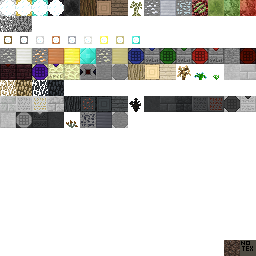
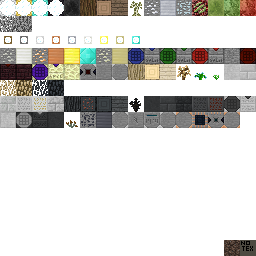
Retextured the Reducer and also added a new higher-power generator that derives from the Reducer.

Changed region(s): [[0.5, 0.4375, 0.9375, 0.5]]

diff --git a/source/com/voidzm/supercraft/handler/CraftingHandler.java b/source/com/voidzm/supercraft/handler/CraftingHandler.java
@@ -8,6 +8,8 @@
 
 package com.voidzm.supercraft.handler;
 
+import com.voidzm.supercraft.util.EssentialReducerRecipes.EssentialAspect;
+
 import cpw.mods.fml.common.registry.GameRegistry;
 import net.minecraft.block.Block;
 import net.minecraft.item.Item;
@@ -42,6 +44,7 @@ public class CraftingHandler {
 	private ItemStack netherBrick;
 	private ItemStack redstone;
 	private ItemStack stoneBrick;
+	private ItemStack flint;
 	
 	// Supercraft
 	
@@ -76,6 +79,9 @@ public class CraftingHandler {
 	private ItemStack nisilBlock;
 	private ItemStack snapdragon;
 	private ItemStack ironboundStone;
+	private ItemStack copperboundStone;
+	private ItemStack aeronicEssence;
+	private ItemStack radantisEssence;
 	
 	public void populateAllAndInitialize() {
 		this.initializeCraftingRefs();
@@ -109,6 +115,7 @@ public class CraftingHandler {
 		netherBrick = new ItemStack(Block.netherBrick);
 		redstone = new ItemStack(Item.redstone);
 		stoneBrick = new ItemStack(Block.stoneBrick);
+		flint = new ItemStack(Item.flint);
 		
 		oliveWood = new ItemStack(BlockHandler.supercraftLog, 1, 0);
 		olivePlanks = new ItemStack(BlockHandler.supercraftPlanks, 1, 0);
@@ -141,6 +148,9 @@ public class CraftingHandler {
 		nisilBlock = new ItemStack(BlockHandler.nisilBlock);
 		snapdragon = new ItemStack(BlockHandler.snapdragon);
 		ironboundStone = new ItemStack(BlockHandler.ironboundStone);
+		copperboundStone = new ItemStack(BlockHandler.copperboundStone);
+		aeronicEssence = new ItemStack(ItemHandler.essence, 1, EssentialAspect.AERONIC.index);
+		radantisEssence = new ItemStack(ItemHandler.essence, 1, EssentialAspect.RADANTIS.index);
 	}
 	
 	private void addRecipes() {
@@ -250,6 +260,9 @@ public class CraftingHandler {
 		// Machines
 		
 		GameRegistry.addRecipe(new ItemStack(BlockHandler.ironboundStone), "a a", " b ", "a a", 'a', ironScrap, 'b', stone);
+		GameRegistry.addRecipe(new ItemStack(BlockHandler.essentialReducer), "aba", "cdc", "aaa", 'a', ironboundStone, 'b', flint, 'c', elinvarDust, 'd', diamond);
+		GameRegistry.addRecipe(new ItemStack(BlockHandler.copperboundStone), "a a", " b ", "a a", 'a', copperChunk, 'b', stone);
+		GameRegistry.addRecipe(new ItemStack(BlockHandler.radiantSolarGenerator), "aba", "cdc", "eee", 'a', aeronicEssence, 'b', radantisEssence, 'c', obsidian, 'd', copper, 'e', copperboundStone);
 		
 	}
 	

diff --git a/source/com/voidzm/supercraft/entity/TileEntityRadiantSolarGenerator.java b/source/com/voidzm/supercraft/entity/TileEntityRadiantSolarGenerator.java
@@ -1,0 +1,65 @@
+package com.voidzm.supercraft.entity;
+
+import com.voidzm.supercraft.handler.BlockHandler;
+
+import net.minecraft.item.ItemStack;
+import net.minecraft.nbt.NBTTagCompound;
+import net.minecraft.nbt.NBTTagList;
+import net.minecraft.network.INetworkManager;
+import net.minecraft.network.packet.Packet;
+import net.minecraft.network.packet.Packet132TileEntityData;
+import net.minecraft.tileentity.TileEntity;
+
+public class TileEntityRadiantSolarGenerator extends TileEntity {
+
+	public boolean activated;
+	private int internalCounter;
+	private boolean inited = false;
+	
+	public TileEntityRadiantSolarGenerator() {
+		activated = false;
+		internalCounter = 0;
+	}
+	
+	public Packet getDescriptionPacket() {
+		NBTTagCompound tag = new NBTTagCompound();
+		this.writeToNBT(tag);
+		return new Packet132TileEntityData(this.xCoord, this.yCoord, this.zCoord, 0, tag);
+	}
+	
+	public void onDataPacket(INetworkManager net, Packet132TileEntityData pkt) {
+		this.readFromNBT(pkt.customParam1);
+	}
+	
+	@Override
+	public void readFromNBT(NBTTagCompound tagCompound) {
+		super.readFromNBT(tagCompound);
+		this.activated = tagCompound.getBoolean("Activated");
+	}
+	
+	@Override
+	public void writeToNBT(NBTTagCompound tagCompound) {
+		super.writeToNBT(tagCompound);
+		tagCompound.setBoolean("Activated", this.activated);
+	}
+	
+	public void updateEntity() {
+		if(this.worldObj == null) return;
+		if(internalCounter < 20) {
+			internalCounter++;
+			return;
+		}
+		if(this.worldObj.canBlockSeeTheSky(this.xCoord, this.yCoord+1, this.zCoord)) {
+			if(this.activated == false) {
+				this.activated = true;
+				this.worldObj.notifyBlocksOfNeighborChange(this.xCoord, this.yCoord, this.zCoord, BlockHandler.radiantSolarGenerator.blockID);
+			}
+		}
+		else if(this.activated == true) {
+			this.activated = false;
+			this.worldObj.notifyBlocksOfNeighborChange(this.xCoord, this.yCoord, this.zCoord, BlockHandler.radiantSolarGenerator.blockID);
+		}
+		internalCounter = 0;
+	}
+	
+}

diff --git a/source/com/voidzm/supercraft/handler/BlockHandler.java b/source/com/voidzm/supercraft/handler/BlockHandler.java
@@ -108,6 +108,8 @@ public class BlockHandler {
 	
 	public static Block ironboundStone;
 	public static Block essentialReducer;
+	public static Block copperboundStone;
+	public static Block radiantSolarGenerator;
 	
 	public void populateAllAndInitialize() {
 		this.createBlocks();
@@ -270,6 +272,8 @@ public class BlockHandler {
 		
 		languageHandler.add(ironboundStone, "Ironbound Stone");
 		languageHandler.add(essentialReducer, "Essential Reducer");
+		languageHandler.add(copperboundStone, "Copperbound Stone");
+		languageHandler.add(radiantSolarGenerator, "Radiant Solar Generator");
 		
 	}
 	
@@ -384,6 +388,8 @@ public class BlockHandler {
 		
 		ironboundStone = new BlockIronboundStone(1656);
 		essentialReducer = new BlockEssentialReducer(1657);
+		copperboundStone = new BlockCopperboundStone(1658);
+		radiantSolarGenerator = new BlockRadiantSolarGenerator(1659);
 		
 	}
 	
@@ -498,6 +504,8 @@ public class BlockHandler {
 		
 		GameRegistry.registerBlock(ironboundStone, "ironboundStone");
 		GameRegistry.registerBlock(essentialReducer, "essentialReducer");
+		GameRegistry.registerBlock(copperboundStone, "copperboundStone");
+		GameRegistry.registerBlock(radiantSolarGenerator, "radiantSolarGenerator");
 		
 	}
 	
@@ -657,6 +665,8 @@ public class BlockHandler {
 		
 		LanguageRegistry.addName(ironboundStone, (String)this.languageHandler.getString(ironboundStone));
 		LanguageRegistry.addName(essentialReducer, (String)this.languageHandler.getString(essentialReducer));
+		LanguageRegistry.addName(copperboundStone, (String)this.languageHandler.getString(copperboundStone));
+		LanguageRegistry.addName(radiantSolarGenerator, (String)this.languageHandler.getString(radiantSolarGenerator));
 		
 	}
 	

diff --git a/source/com/voidzm/supercraft/block/BlockContainerGenerator.java b/source/com/voidzm/supercraft/block/BlockContainerGenerator.java
@@ -1,0 +1,52 @@
+//////////////////////////////////////
+//*  BlockContainerGenerator.java  *//
+//*           Supercraft           *//
+//*        (c) voidzm 2013         *//
+//////////////////////////////////////
+
+package com.voidzm.supercraft.block;
+
+import com.voidzm.supercraft.CommonProxy;
+import com.voidzm.supercraft.Supercraft;
+
+import net.minecraft.block.Block;
+import net.minecraft.block.BlockContainer;
+import net.minecraft.block.material.Material;
+import net.minecraft.creativetab.CreativeTabs;
+import net.minecraft.tileentity.TileEntity;
+import net.minecraft.world.World;
+
+public class BlockContainerGenerator extends BlockContainer {
+
+	public BlockContainerGenerator(int id, int tex) {
+		super(id, tex, Material.iron);
+		this.setHardness(3.0F);
+		this.setResistance(5.0F);
+		this.setStepSound(Block.soundMetalFootstep);
+		this.setBlockName("generator");
+		this.setCreativeTab(Supercraft.elinvarTab);
+	}
+	
+	@Override
+	public String getTextureFile() {
+		return CommonProxy.BLOCKS_PNG;
+	}
+	
+	public void onBlockAdded(World par1World, int par2, int par3, int par4) {
+		this.updateState(par1World, par2, par3, par4);
+	}
+	
+	public void onNeighborBlockChange(World par1World, int par2, int par3, int par4, int par5) {
+		this.updateState(par1World, par2, par3, par4);
+	}
+	
+	public void updateState(World par1World, int par2, int par3, int par4) {
+		// Subclasses override this to perform updates.
+	}
+
+	@Override
+	public TileEntity createNewTileEntity(World var1) {
+		return null;
+	}
+	
+}

diff --git a/source/com/voidzm/supercraft/block/BlockRadiantSolarGenerator.java b/source/com/voidzm/supercraft/block/BlockRadiantSolarGenerator.java
@@ -1,0 +1,47 @@
+package com.voidzm.supercraft.block;
+
+import net.minecraft.tileentity.TileEntity;
+import net.minecraft.world.World;
+
+import com.voidzm.supercraft.entity.TileEntityConduit;
+import com.voidzm.supercraft.entity.TileEntityRadiantSolarGenerator;
+import com.voidzm.supercraft.protocol.IGenerator;
+import com.voidzm.supercraft.protocol.IGenerator.GeneratorSide;
+
+public class BlockRadiantSolarGenerator extends BlockContainerGenerator implements IGenerator {
+
+	public BlockRadiantSolarGenerator(int id) {
+		super(id, 124);
+		this.setBlockName("radiantSolarGenerator");
+	}
+
+	public int getBlockTextureFromSideAndMetadata(int side, int meta) {
+		if(side == 0) return 126;
+		else if(side == 1) return 124;
+		else return 125;
+	}
+	
+	@Override
+	public boolean doesOutputPowerAt(World world, int x, int y, int z) {
+		return ((TileEntityRadiantSolarGenerator)world.getBlockTileEntity(x, y, z)).activated;
+	}
+
+	@Override
+	public int powerOutputAt(World world, int x, int y, int z) {
+		return 8;
+	}
+
+	@Override
+	public boolean shouldConnectAtSide(GeneratorSide side) {
+		if(side != GeneratorSide.BOTTOM && side != GeneratorSide.TOP) return true;
+		else return false;
+	}
+	
+	public boolean hasTileEntity(int meta) {
+		return true;
+	}
+	
+	public TileEntity createNewTileEntity(World par1World) {
+		return new TileEntityRadiantSolarGenerator();
+	}
+}

diff --git a/source/com/voidzm/supercraft/Supercraft.java b/source/com/voidzm/supercraft/Supercraft.java
@@ -9,6 +9,7 @@ package com.voidzm.supercraft;
 import com.voidzm.supercraft.dimension.WorldProviderSurfaceAlternate;
 import com.voidzm.supercraft.entity.TileEntityConduit;
 import com.voidzm.supercraft.entity.TileEntityEssentialReducer;
+import com.voidzm.supercraft.entity.TileEntityRadiantSolarGenerator;
 import com.voidzm.supercraft.event.EventBonemeal;
 import com.voidzm.supercraft.gen.WorldGenOre;
 import com.voidzm.supercraft.gui.SCMainMenu;
@@ -101,6 +102,7 @@ public class Supercraft {
 		GameRegistry.registerWorldGenerator(new WorldGenOre());
 		GameRegistry.registerTileEntity(TileEntityConduit.class, "tileEntityConduit");
 		GameRegistry.registerTileEntity(TileEntityEssentialReducer.class, "tileEntityEssentialReducer");
+		GameRegistry.registerTileEntity(TileEntityRadiantSolarGenerator.class, "tileEntityRadiantSolarGenerator");
 		NetworkRegistry.instance().registerGuiHandler(instance, guiHandler);
 		LanguageRegistry.instance().addStringLocalization("itemGroup.elinvarTab", "Elinvar");
 		System.out.println("[Supercraft] Loaded.");

diff --git a/source/com/voidzm/supercraft/block/BlockCopperboundStone.java b/source/com/voidzm/supercraft/block/BlockCopperboundStone.java
@@ -1,0 +1,30 @@
+package com.voidzm.supercraft.block;
+
+import java.util.Random;
+
+import com.voidzm.supercraft.CommonProxy;
+import com.voidzm.supercraft.Supercraft;
+import com.voidzm.supercraft.handler.BlockHandler;
+
+import net.minecraft.block.Block;
+import net.minecraft.block.material.Material;
+import net.minecraft.creativetab.CreativeTabs;
+import net.minecraft.world.World;
+
+public class BlockCopperboundStone extends Block {
+
+	public BlockCopperboundStone(int par1) {
+		super(par1, 123, Material.rock);
+		this.setHardness(3.0F);
+		this.setResistance(15.0F);
+		this.setStepSound(soundStoneFootstep);
+		this.setBlockName("copperboundStone");
+		this.setCreativeTab(Supercraft.elinvarTab);
+	}
+	
+	@Override
+	public String getTextureFile() {
+		return CommonProxy.BLOCKS_PNG;
+	}
+
+}

diff --git a/source/com/voidzm/supercraft/block/BlockEssentialReducer.java b/source/com/voidzm/supercraft/block/BlockEssentialReducer.java
@@ -94,4 +94,10 @@ public class BlockEssentialReducer extends BlockContainer {
 		te.doUpdateCheck = true;
 	}
 	
+	public int getBlockTextureFromSideAndMetadata(int side, int meta) {
+		if(side == 0) return 122;
+		else if(side == 1) return 120;
+		else return 121;
+	}
+	
 }
